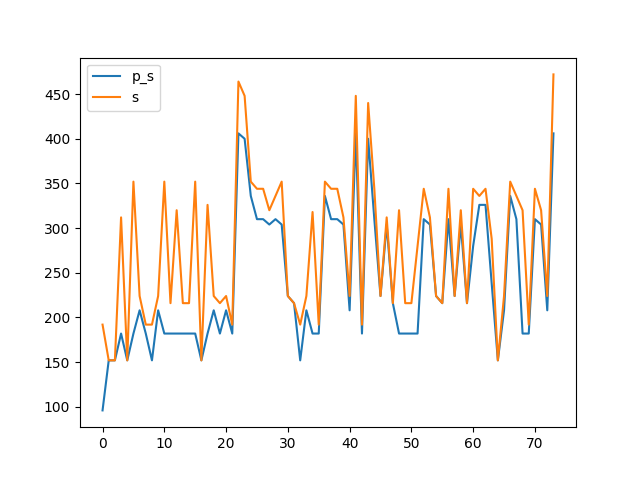
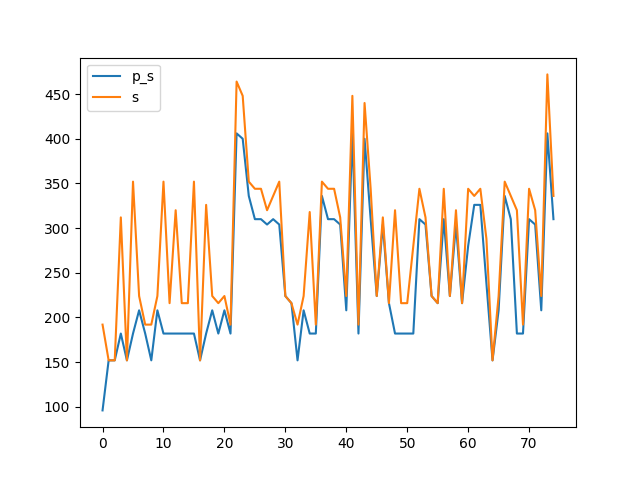
0x004A

diff --git a/benchmark.md b/benchmark.md
@@ -146,16 +146,18 @@ Synthesising 0x0048 pexact:208 r=4 exact:224 r=3
 
 Synthesising 0x0049 pexact:406 r=6 exact:472 r=5
 
+Synthesising 0x004A pexact:310 r=5 exact:336 r=4
+
 ```mermaid
 xychart-beta
     title "Comparison powertwoexact twoexact"
-    x-axis [0, 1, 2, 3, 4, 5, 6, 7, 8, 9, 10, 11, 12, 13, 14, 15, 16, 17, 18, 19, 20, 21, 22, 23, 24, 25, 26, 27, 28, 29, 30, 31, 32, 33, 34, 35, 36, 37, 38, 39, 40, 41, 42, 43, 44, 45, 46, 47, 48, 49, 50, 51, 52, 53, 54, 55, 56, 57, 58, 59, 60, 61, 62, 63, 64, 65, 66, 67, 68, 69, 70, 71, 72, 73]
+    x-axis [0, 1, 2, 3, 4, 5, 6, 7, 8, 9, 10, 11, 12, 13, 14, 15, 16, 17, 18, 19, 20, 21, 22, 23, 24, 25, 26, 27, 28, 29, 30, 31, 32, 33, 34, 35, 36, 37, 38, 39, 40, 41, 42, 43, 44, 45, 46, 47, 48, 49, 50, 51, 52, 53, 54, 55, 56, 57, 58, 59, 60, 61, 62, 63, 64, 65, 66, 67, 68, 69, 70, 71, 72, 73, 74]
     y-axis "Switching Activity" 0-->472
-    line [96, 152, 152, 182, 152, 182, 208, 182, 152, 208, 182, 182, 182, 182, 182, 182, 152, 182, 208, 182, 208, 182, 406, 400, 336, 310, 310, 304, 310, 304, 224, 216, 152, 208, 182, 182, 336, 310, 310, 304, 208, 406, 182, 400, 310, 224, 304, 216, 182, 182, 182, 182, 310, 304, 224, 216, 310, 224, 304, 216, 280, 326, 326, 238, 152, 208, 336, 310, 182, 182, 310, 304, 208, 406]
-    line [192, 152, 152, 312, 152, 352, 224, 192, 192, 224, 352, 216, 320, 216, 216, 352, 152, 326, 224, 216, 224, 192, 464, 448, 352, 344, 344, 320, 336, 352, 224, 216, 192, 224, 318, 192, 352, 344, 344, 312, 224, 448, 192, 440, 344, 224, 312, 216, 320, 216, 216, 280, 344, 312, 224, 216, 344, 224, 320, 216, 344, 336, 344, 288, 152, 224, 352, 336, 320, 192, 344, 320, 224, 472]
-    line [240.94594594594594, 240.94594594594594, 240.94594594594594, 240.94594594594594, 240.94594594594594, 240.94594594594594, 240.94594594594594, 240.94594594594594, 240.94594594594594, 240.94594594594594, 240.94594594594594, 240.94594594594594, 240.94594594594594, 240.94594594594594, 240.94594594594594, 240.94594594594594, 240.94594594594594, 240.94594594594594, 240.94594594594594, 240.94594594594594, 240.94594594594594, 240.94594594594594, 240.94594594594594, 240.94594594594594, 240.94594594594594, 240.94594594594594, 240.94594594594594, 240.94594594594594, 240.94594594594594, 240.94594594594594, 240.94594594594594, 240.94594594594594, 240.94594594594594, 240.94594594594594, 240.94594594594594, 240.94594594594594, 240.94594594594594, 240.94594594594594, 240.94594594594594, 240.94594594594594, 240.94594594594594, 240.94594594594594, 240.94594594594594, 240.94594594594594, 240.94594594594594, 240.94594594594594, 240.94594594594594, 240.94594594594594, 240.94594594594594, 240.94594594594594, 240.94594594594594, 240.94594594594594, 240.94594594594594, 240.94594594594594, 240.94594594594594, 240.94594594594594, 240.94594594594594, 240.94594594594594, 240.94594594594594, 240.94594594594594, 240.94594594594594, 240.94594594594594, 240.94594594594594, 240.94594594594594, 240.94594594594594, 240.94594594594594, 240.94594594594594, 240.94594594594594, 240.94594594594594, 240.94594594594594, 240.94594594594594, 240.94594594594594, 240.94594594594594, 240.94594594594594]
-    line [279.8378378378378, 279.8378378378378, 279.8378378378378, 279.8378378378378, 279.8378378378378, 279.8378378378378, 279.8378378378378, 279.8378378378378, 279.8378378378378, 279.8378378378378, 279.8378378378378, 279.8378378378378, 279.8378378378378, 279.8378378378378, 279.8378378378378, 279.8378378378378, 279.8378378378378, 279.8378378378378, 279.8378378378378, 279.8378378378378, 279.8378378378378, 279.8378378378378, 279.8378378378378, 279.8378378378378, 279.8378378378378, 279.8378378378378, 279.8378378378378, 279.8378378378378, 279.8378378378378, 279.8378378378378, 279.8378378378378, 279.8378378378378, 279.8378378378378, 279.8378378378378, 279.8378378378378, 279.8378378378378, 279.8378378378378, 279.8378378378378, 279.8378378378378, 279.8378378378378, 279.8378378378378, 279.8378378378378, 279.8378378378378, 279.8378378378378, 279.8378378378378, 279.8378378378378, 279.8378378378378, 279.8378378378378, 279.8378378378378, 279.8378378378378, 279.8378378378378, 279.8378378378378, 279.8378378378378, 279.8378378378378, 279.8378378378378, 279.8378378378378, 279.8378378378378, 279.8378378378378, 279.8378378378378, 279.8378378378378, 279.8378378378378, 279.8378378378378, 279.8378378378378, 279.8378378378378, 279.8378378378378, 279.8378378378378, 279.8378378378378, 279.8378378378378, 279.8378378378378, 279.8378378378378, 279.8378378378378, 279.8378378378378, 279.8378378378378, 279.8378378378378]
-    bar [80, 60, 60, 80, 60, 80, 80, 80, 60, 80, 80, 80, 80, 80, 80, 80, 60, 80, 80, 80, 80, 80, 120, 120, 100, 100, 100, 100, 100, 100, 60, 60, 60, 80, 80, 80, 100, 100, 100, 100, 80, 120, 80, 120, 100, 60, 100, 60, 80, 80, 80, 80, 100, 100, 60, 60, 100, 60, 100, 60, 80, 100, 100, 100, 60, 80, 100, 100, 80, 80, 100, 100, 80, 120]
-    bar [80, 60, 60, 80, 60, 80, 60, 60, 60, 60, 80, 60, 80, 60, 60, 80, 60, 80, 60, 60, 60, 60, 100, 100, 80, 80, 80, 80, 80, 80, 60, 60, 60, 60, 80, 60, 80, 80, 80, 80, 60, 100, 60, 100, 80, 60, 80, 60, 80, 60, 60, 80, 80, 80, 60, 60, 80, 60, 80, 60, 80, 80, 80, 80, 60, 60, 80, 80, 80, 60, 80, 80, 60, 100]
+    line [96, 152, 152, 182, 152, 182, 208, 182, 152, 208, 182, 182, 182, 182, 182, 182, 152, 182, 208, 182, 208, 182, 406, 400, 336, 310, 310, 304, 310, 304, 224, 216, 152, 208, 182, 182, 336, 310, 310, 304, 208, 406, 182, 400, 310, 224, 304, 216, 182, 182, 182, 182, 310, 304, 224, 216, 310, 224, 304, 216, 280, 326, 326, 238, 152, 208, 336, 310, 182, 182, 310, 304, 208, 406, 310]
+    line [192, 152, 152, 312, 152, 352, 224, 192, 192, 224, 352, 216, 320, 216, 216, 352, 152, 326, 224, 216, 224, 192, 464, 448, 352, 344, 344, 320, 336, 352, 224, 216, 192, 224, 318, 192, 352, 344, 344, 312, 224, 448, 192, 440, 344, 224, 312, 216, 320, 216, 216, 280, 344, 312, 224, 216, 344, 224, 320, 216, 344, 336, 344, 288, 152, 224, 352, 336, 320, 192, 344, 320, 224, 472, 336]
+    line [241.86666666666667, 241.86666666666667, 241.86666666666667, 241.86666666666667, 241.86666666666667, 241.86666666666667, 241.86666666666667, 241.86666666666667, 241.86666666666667, 241.86666666666667, 241.86666666666667, 241.86666666666667, 241.86666666666667, 241.86666666666667, 241.86666666666667, 241.86666666666667, 241.86666666666667, 241.86666666666667, 241.86666666666667, 241.86666666666667, 241.86666666666667, 241.86666666666667, 241.86666666666667, 241.86666666666667, 241.86666666666667, 241.86666666666667, 241.86666666666667, 241.86666666666667, 241.86666666666667, 241.86666666666667, 241.86666666666667, 241.86666666666667, 241.86666666666667, 241.86666666666667, 241.86666666666667, 241.86666666666667, 241.86666666666667, 241.86666666666667, 241.86666666666667, 241.86666666666667, 241.86666666666667, 241.86666666666667, 241.86666666666667, 241.86666666666667, 241.86666666666667, 241.86666666666667, 241.86666666666667, 241.86666666666667, 241.86666666666667, 241.86666666666667, 241.86666666666667, 241.86666666666667, 241.86666666666667, 241.86666666666667, 241.86666666666667, 241.86666666666667, 241.86666666666667, 241.86666666666667, 241.86666666666667, 241.86666666666667, 241.86666666666667, 241.86666666666667, 241.86666666666667, 241.86666666666667, 241.86666666666667, 241.86666666666667, 241.86666666666667, 241.86666666666667, 241.86666666666667, 241.86666666666667, 241.86666666666667, 241.86666666666667, 241.86666666666667, 241.86666666666667, 241.86666666666667]
+    line [280.58666666666664, 280.58666666666664, 280.58666666666664, 280.58666666666664, 280.58666666666664, 280.58666666666664, 280.58666666666664, 280.58666666666664, 280.58666666666664, 280.58666666666664, 280.58666666666664, 280.58666666666664, 280.58666666666664, 280.58666666666664, 280.58666666666664, 280.58666666666664, 280.58666666666664, 280.58666666666664, 280.58666666666664, 280.58666666666664, 280.58666666666664, 280.58666666666664, 280.58666666666664, 280.58666666666664, 280.58666666666664, 280.58666666666664, 280.58666666666664, 280.58666666666664, 280.58666666666664, 280.58666666666664, 280.58666666666664, 280.58666666666664, 280.58666666666664, 280.58666666666664, 280.58666666666664, 280.58666666666664, 280.58666666666664, 280.58666666666664, 280.58666666666664, 280.58666666666664, 280.58666666666664, 280.58666666666664, 280.58666666666664, 280.58666666666664, 280.58666666666664, 280.58666666666664, 280.58666666666664, 280.58666666666664, 280.58666666666664, 280.58666666666664, 280.58666666666664, 280.58666666666664, 280.58666666666664, 280.58666666666664, 280.58666666666664, 280.58666666666664, 280.58666666666664, 280.58666666666664, 280.58666666666664, 280.58666666666664, 280.58666666666664, 280.58666666666664, 280.58666666666664, 280.58666666666664, 280.58666666666664, 280.58666666666664, 280.58666666666664, 280.58666666666664, 280.58666666666664, 280.58666666666664, 280.58666666666664, 280.58666666666664, 280.58666666666664, 280.58666666666664, 280.58666666666664]
+    bar [80, 60, 60, 80, 60, 80, 80, 80, 60, 80, 80, 80, 80, 80, 80, 80, 60, 80, 80, 80, 80, 80, 120, 120, 100, 100, 100, 100, 100, 100, 60, 60, 60, 80, 80, 80, 100, 100, 100, 100, 80, 120, 80, 120, 100, 60, 100, 60, 80, 80, 80, 80, 100, 100, 60, 60, 100, 60, 100, 60, 80, 100, 100, 100, 60, 80, 100, 100, 80, 80, 100, 100, 80, 120, 100]
+    bar [80, 60, 60, 80, 60, 80, 60, 60, 60, 60, 80, 60, 80, 60, 60, 80, 60, 80, 60, 60, 60, 60, 100, 100, 80, 80, 80, 80, 80, 80, 60, 60, 60, 60, 80, 60, 80, 80, 80, 80, 60, 100, 60, 100, 80, 60, 80, 60, 80, 60, 60, 80, 80, 80, 60, 60, 80, 60, 80, 60, 80, 80, 80, 80, 60, 60, 80, 80, 80, 60, 80, 80, 60, 100, 80]
 ```
 
